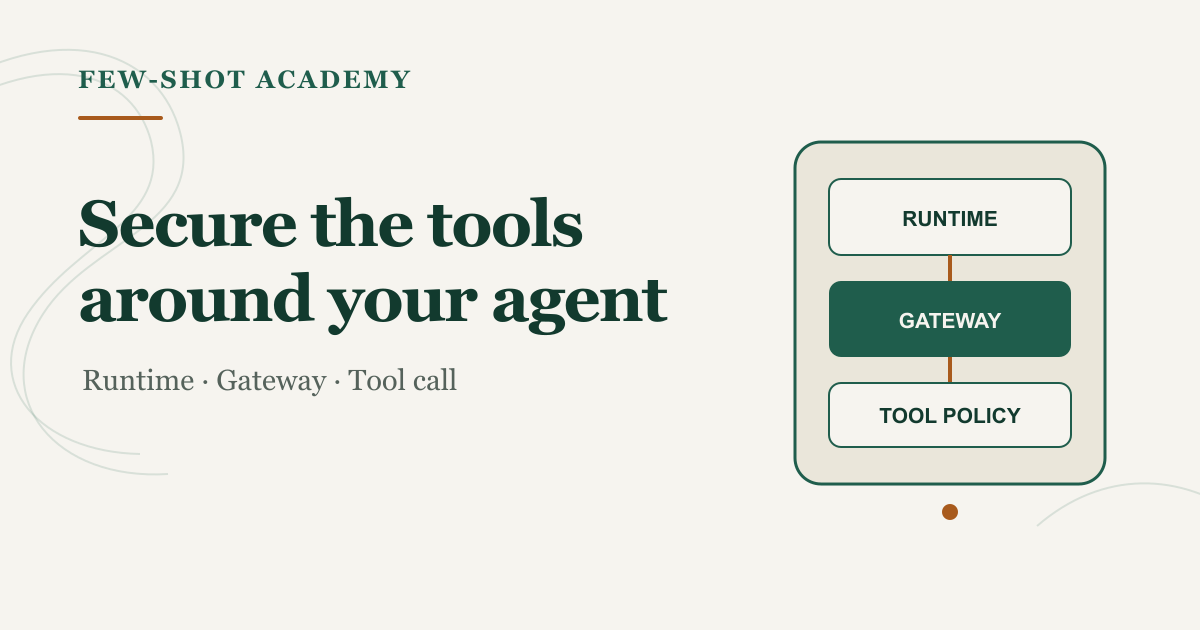
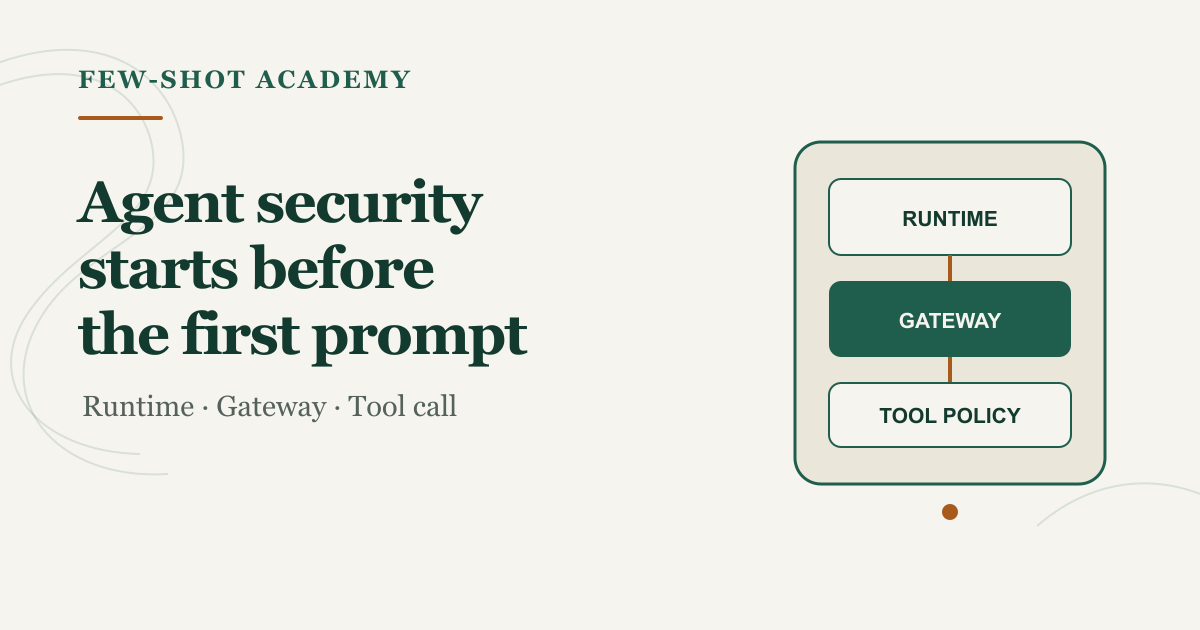
Strengthen agent security article hook and progression
Refs #89, #91

Changed region(s): [[0.0617, 0.2714, 0.555, 0.6635]]

diff --git a/site/blog/2026-09-13-secure-the-tools-around-your-agent/index.md b/site/blog/2026-09-13-secure-the-tools-around-your-agent/index.md
@@ -1,5 +1,5 @@
 ---
-title: Secure the tools around your agent
+title: Agent security starts before the first prompt
 description: Tool allowlists help when a model makes a bad decision. They cannot stop startup hooks or an exposed gateway from acting outside the model, so those paths need their own boundaries.
 slug: secure-the-tools-around-your-agent
 authors: [mangatrai]
@@ -7,118 +7,58 @@ tags: [security, ai-agents, infrastructure, ai-gateways]
 image: ./social-card.png
 ---
 
-An agent can cause damage before the model makes its first decision. On September 1, 2026, Manifold described coding agents that invoked Git while gathering workspace context, allowing repository-local Git configuration to run a program on the host. Some affected agents performed that work before a user typed a prompt or approved workspace trust.
+An agent can cause damage before the model makes its first decision.
 
-That is a different failure from prompt injection. A tool-call allowlist can stop a model from emailing an attacker. It cannot stop the application around the model from launching an unsafe subprocess during startup.
+On September 1, 2026, Manifold described coding agents that invoked Git while gathering workspace context, allowing repository-local Git configuration to run a program on the host. Some affected agents performed that work before a user typed a prompt or approved workspace trust.
+
+In [Manifold's GitSpawn research](https://www.manifold.security/blog/ai-coding-agents-git-hijack), the relevant path was a repository received as files, with a `.git` directory inside a ZIP archive. Git read repository-local configuration while the agent gathered context. An ordinary Git clone, fetch, or pull does **not** transfer repository-local `.git/config` from the remote.
+
+The model did not choose a harmful tool call. The runtime acted while preparing to use the model. That is why an agent review needs three boundaries: the runtime that starts processes, the gateway that holds credentials and routes requests, and the tool that makes a sensitive change.
 
 {/* truncate */}
 
-:::tip[TL;DR]
-A production agent inherits authority from more than its tool schema. Startup hooks, repository configuration, plugins, gateways, credentials, and network access can all act outside the model's visible tool loop. Keep tool-call policy, but also constrain the runtime and gateway that make those tools possible.
-:::
+## Workspace trust has to include startup
 
-## The model is only one decision-maker
+Imagine a coding agent opening a project so it can answer a simple question about a failing test. Before the chat box is useful, the application may inspect the working tree, run Git to learn the branch and status, index files, load extensions, and collect credentials for the model gateway. None of that is a model-requested tool call. It is still code acting with the authority of the agent process.
 
-Most agent security diagrams begin with a prompt and end with a tool call. That catches an important risk: untrusted text convinces the model to call a legitimate tool with harmful arguments. The control belongs at the tool boundary, where code can reject an unauthorized recipient, path, query, or action regardless of the model's reasoning.
+Manifold reported eight findings across seven coding agents. Some affected paths ran before authentication or workspace approval. At publication, some issues had been patched; Manifold said four findings remained unpatched and withheld details for those paths.
 
-But an agent is also a normal software process. It reads configuration, discovers a repository, starts subprocesses, loads extensions, calls a gateway, and uses credentials from its environment. Those operations may happen before or beside the model loop.
+For the coding agent in this example, I would make the startup contract explicit. It may read the checked-out project files. It may not inherit production cloud credentials, reach arbitrary internet hosts, or start programs named by workspace configuration. Opening an unfamiliar workspace happens in a reduced-permission environment. If the product asks for workspace trust before executing code, discovery and indexing need to honor the same boundary. Keeping production credentials out of its environment and filesystem limits what a missed startup hook can expose.
 
-```mermaid
-flowchart LR
-    Input[Untrusted request or content] --> Model[Model decides]
-    Model --> ToolPolicy{Tool policy}
-    ToolPolicy -->|allowed| Tool[Tool executes]
-    ToolPolicy -->|blocked| Stop[Stop]
+This is not a replacement for prompt-injection defenses. It covers authority that exists before the model is asked to reason.
 
-    Workspace[Repository and local config] --> Runtime{Runtime boundary}
-    Runtime --> Agent[Agent process]
-    Agent --> Model
-    Agent --> Gateway{Gateway boundary}
-    Gateway --> Provider[Model provider]
-    Gateway --> Connected[Connected services]
-```
+## The gateway is also outside the model loop
 
-The three diamonds answer different questions:
+The same coding agent may send its prompts through a gateway. That gateway can hold provider keys, route requests, apply guardrails, and reach internal services. It is a useful policy point, but it is also a privileged service. Its authentication, administration, credentials, and network reach are security decisions made outside the model's visible tool loop.
 
-| Boundary | Question it must answer | Example control |
-|---|---|---|
-| Runtime | What may this process read, execute, and reach? | Isolated workspace, reduced OS permissions, outbound network rules |
-| Gateway | Who may use this shared control plane, and what can it reach? | Strong authentication, patched releases, scoped credentials, restricted administration |
-| Tool call | May this specific action happen with these arguments? | Recipient allowlist, path restriction, read-only database role, human approval |
+Wiz's [September 9 LiteLLM research](https://www.wiz.io/blog/off-guard-breaking-litellm-from-authentication-bypass-to-cloud-compromise) gives that distinction some weight. In a February 2026 scan of 3,074 publicly exposed instances, Wiz found that 9.6% either accepted the default master key or required no authentication. That is a combined figure, not a claim that 9.6% used the default key, and it does not describe private deployments.
 
-This table is an operational recommendation, not a claim that every agent needs the same architecture. A local study assistant with no sensitive data needs less isolation than an unattended coding agent with cloud credentials. The useful move is to identify each path that carries authority, then put a control on that path.
+Wiz also reported an MCP authentication bypass, CVE-2026-59822, and a separate post-authentication code-execution issue in custom-code guardrails, CVE-2026-59821. The researchers wrote that the custom-code guardrail registration path lacked protections present in the test endpoint. Patches were available when Wiz published. A gateway deserves the same careful boundary design as any other service that holds keys and reaches sensitive systems.
 
-## Startup plumbing is part of the attack surface
+For this agent, the gateway should reject a request without a valid credential before it routes anything. Its service identity should have only the provider access and internal destinations the task needs. Administrative and custom-code features should be limited to the small group that operates them. Keeping a gateway private, patching it with an owner and response window, and logging administrative changes are ordinary infrastructure controls. They matter here because a compromise could act without asking the model to call a tool.
 
-Manifold's [GitSpawn research](https://www.manifold.security/blog/ai-coding-agents-git-hijack) reported eight findings across seven coding agents. The shared mechanism was ordinary context gathering: agents called Git in a repository, and Git honored local configuration that named programs to run. The researchers reported that some calls happened before authentication or workspace approval. At publication, four findings remained unpatched, so they withheld details for those paths.
+## Keep the last boundary at the tool
 
-In Manifold's tests, every proof of concept used a ZIP archive containing a `.git` directory. A normal Git clone, fetch, or pull does not copy repository-local configuration from the remote. Manifold advised users who receive a repository as files to inspect `.git/config` before opening that directory with an agent. It advised agent vendors to sanitize Git configuration on background context-gathering calls.
+Now return to the coding agent after it has started safely and reached an authenticated gateway. The model examines a failing test and proposes a sensitive action: deploy a fix to the production environment.
 
-The broader lesson is mine: **workspace trust has to cover startup behavior, not only commands the model requests.** If an application promises approval before execution, its own discovery and indexing code must honor that boundary too.
+That decision still needs a tool boundary. The deployment service can require an approved environment, a change identifier, and a human approval. The model can propose the action, but deterministic code decides whether the request fits the authority granted to this task. A model instruction such as “deploy it now” cannot substitute for those checks.
 
-For a team running coding agents, I would review this path in order:
+This is where tool allowlists and argument validation belong. They are strong controls for actions the model requests: writing outside an approved filesystem root, querying a restricted database schema, sending to an unapproved recipient, or deploying to an environment that needs review. They do not secure Git startup or gateway authentication because those events happen on different paths.
 
-1. Identify every command and hook that runs when a workspace opens, before the first prompt, and during background indexing.
-2. Test those paths with hostile local configuration in an isolated environment.
-3. Disable configuration keys and environment behavior the agent does not need.
-4. Open unfamiliar workspaces with reduced filesystem, process, credential, and network access.
-5. Keep secrets outside the agent process until the task actually needs them.
+## Review one agent you run
 
-That last step limits the consequence of a missed hook. A startup process cannot leak a cloud credential it never received.
+Follow one sensitive job from startup to its most consequential action. For the illustrative coding agent, the map might look like this:
 
-## The gateway is a privileged service
+| Component | Capability | Credential or network reach | Enforcing control |
+| --- | --- | --- | --- |
+| Workspace runtime | Read and index project files | Gateway access token; no provider or production cloud keys; gateway and approved dependency endpoints only | Isolated workspace, restricted subprocesses, outbound allowlist |
+| Model gateway | Route model requests and apply policy | Scoped provider credential; approved internal services | Authentication that fails closed, private exposure, patched release, least-privilege service identity |
+| Deployment tool | Request a production deployment | Deployment API for the approved environment | Environment allowlist, change ID, human approval |
 
-An AI gateway often holds provider keys, processes prompts and responses, applies guardrails, and connects to internal services. That makes it a useful policy boundary. It also makes gateway authentication and administration a security-critical control plane.
+The point is to name the authority each component actually has, then attach a control that can enforce it. A local learning project may need far less isolation than an unattended agent with production access.
 
-Wiz's [September 9 LiteLLM research](https://www.wiz.io/blog/off-guard-breaking-litellm-from-authentication-bypass-to-cloud-compromise) makes the consequence concrete. In a February 2026 snapshot, 9.6% of 3,074 publicly reachable LiteLLM instances either accepted the default master key, `sk-1234`, **or** required no authentication. That combined figure does not mean 9.6% used the default key, and it says nothing about private deployments.
+One boundary test makes the map real. Send the gateway the same request the coding agent would make, but omit its gateway credential. The expected result is an authentication rejection before routing, with no provider request and no internal service access. A successful model response or evidence in downstream routing logs that the request was forwarded is a failure. Record the rejection and check downstream logs; an error message alone does not show whether the request was forwarded.
 
-The same research described an MCP authentication bypass, CVE-2026-59822, and a separate post-authentication code-execution flaw in custom code guardrails, CVE-2026-59821. Wiz reported that patches were available when it published. The MCP issue had also entered CISA's Known Exploited Vulnerabilities catalog, and Wiz said its honeypot observed exploitation.
+The [Agent Security lesson](/docs/advanced-concepts/agent-security) demonstrates the tool-call side with an indirect prompt-injection lab. [AI Gateways](/docs/advanced-concepts/ai-gateways) explains the application-owned routing boundary.
 
-Do not turn that incident into “never use a gateway.” A shared boundary can make authentication, budgets, routing, and audit policy more consistent. Treat it like the privileged service it is:
-
-- keep it off the public internet unless public access is required;
-- require authentication explicitly and test that an absent, invalid, or default credential fails closed;
-- patch it as infrastructure, with an owner and a response window;
-- restrict administrative and custom-code features to the smallest role that needs them;
-- give the gateway scoped provider and cloud credentials;
-- restrict which internal URLs and MCP servers it can reach;
-- log administrative changes and tool access without copying sensitive prompt content by default.
-
-A provider key with a spending limit is safer than an unrestricted key, but spend is only one consequence. If the gateway can reach internal tools or cloud metadata, its network and identity permissions decide how far a compromise travels.
-
-## Keep the tool guard
-
-Runtime isolation and gateway hardening do not replace tool policy. They handle different decisions.
-
-Suppose an email agent reads a malicious vendor document. The application starts safely, the gateway is patched and private, and the model still follows the document's hidden instruction to send an internal plan outside the company. A recipient allowlist at `send_email` blocks that action at the last useful point.
-
-The inverse matters too. A perfect recipient allowlist does nothing if a startup hook can read environment secrets and make its own network request. Both controls reduce authority, but on separate paths.
-
-This is why I prefer enforceable constraints over a long list of suspicious phrases. For each sensitive action, decide what code can verify without guessing intent:
-
-- email recipients and attachment classes;
-- filesystem roots and read versus write access;
-- database roles, schemas, and query types;
-- deployment environments and required approvals;
-- payment limits and permitted counterparties;
-- network destinations and request methods.
-
-The model may propose an action. A deterministic policy decides whether the action fits the authority granted for this task.
-
-## A review you can run this week
-
-Pick one real agent and trace a request from process startup through its most sensitive tool. Write down every place that can execute code, read a secret, cross a network boundary, or make a lasting change.
-
-Then answer five questions:
-
-1. What runs before the first prompt or approval?
-2. Which credentials exist in the process, gateway, and tool service?
-3. Which network destinations can each component reach?
-4. Where are tool arguments checked by code instead of trusted to model judgment?
-5. Can you prove that missing or invalid authentication fails closed?
-
-If an answer depends on “the model would not do that,” the control is in the wrong place. Move it to the runtime, gateway, or tool that can enforce the rule.
-
-The [Agent Security lesson](/docs/advanced-concepts/agent-security) demonstrates the tool-call side with an indirect prompt-injection lab. [AI Gateways](/docs/advanced-concepts/ai-gateways) explains the application-owned boundary and routing contract. Use them together, then add the runtime and gateway checks above to the threat review.
-
-The practical change is small: treat everything around the model as part of the agent. Inventory it, reduce its authority, and test the boundaries before an untrusted repository, document, or request does it for you.
+Record expected and actual results for one boundary test, then fix one gap before giving the agent more authority.
